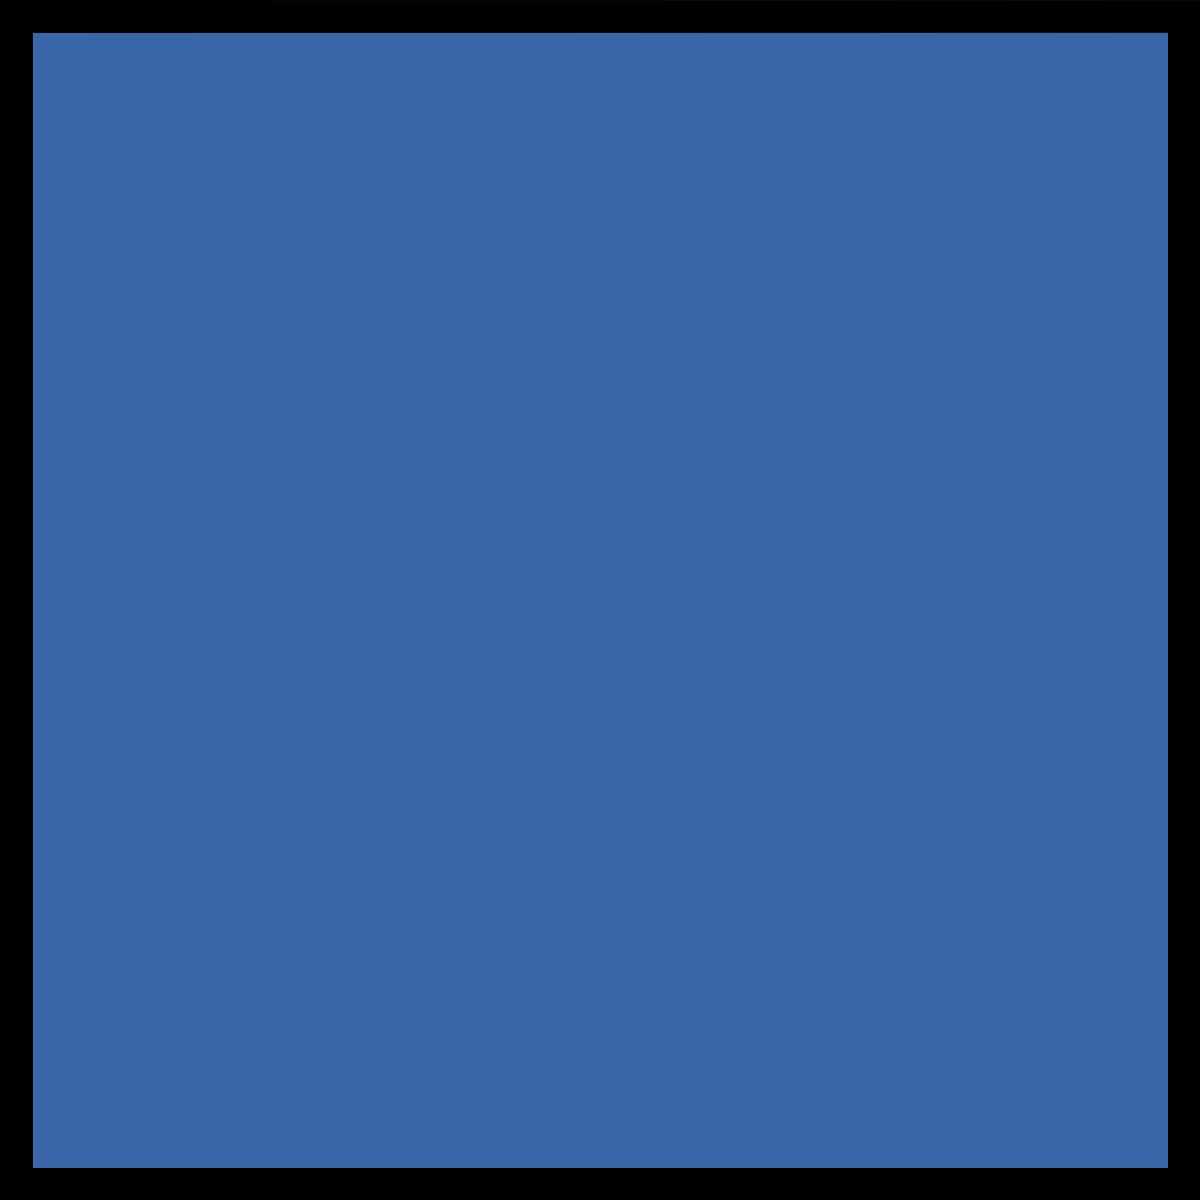
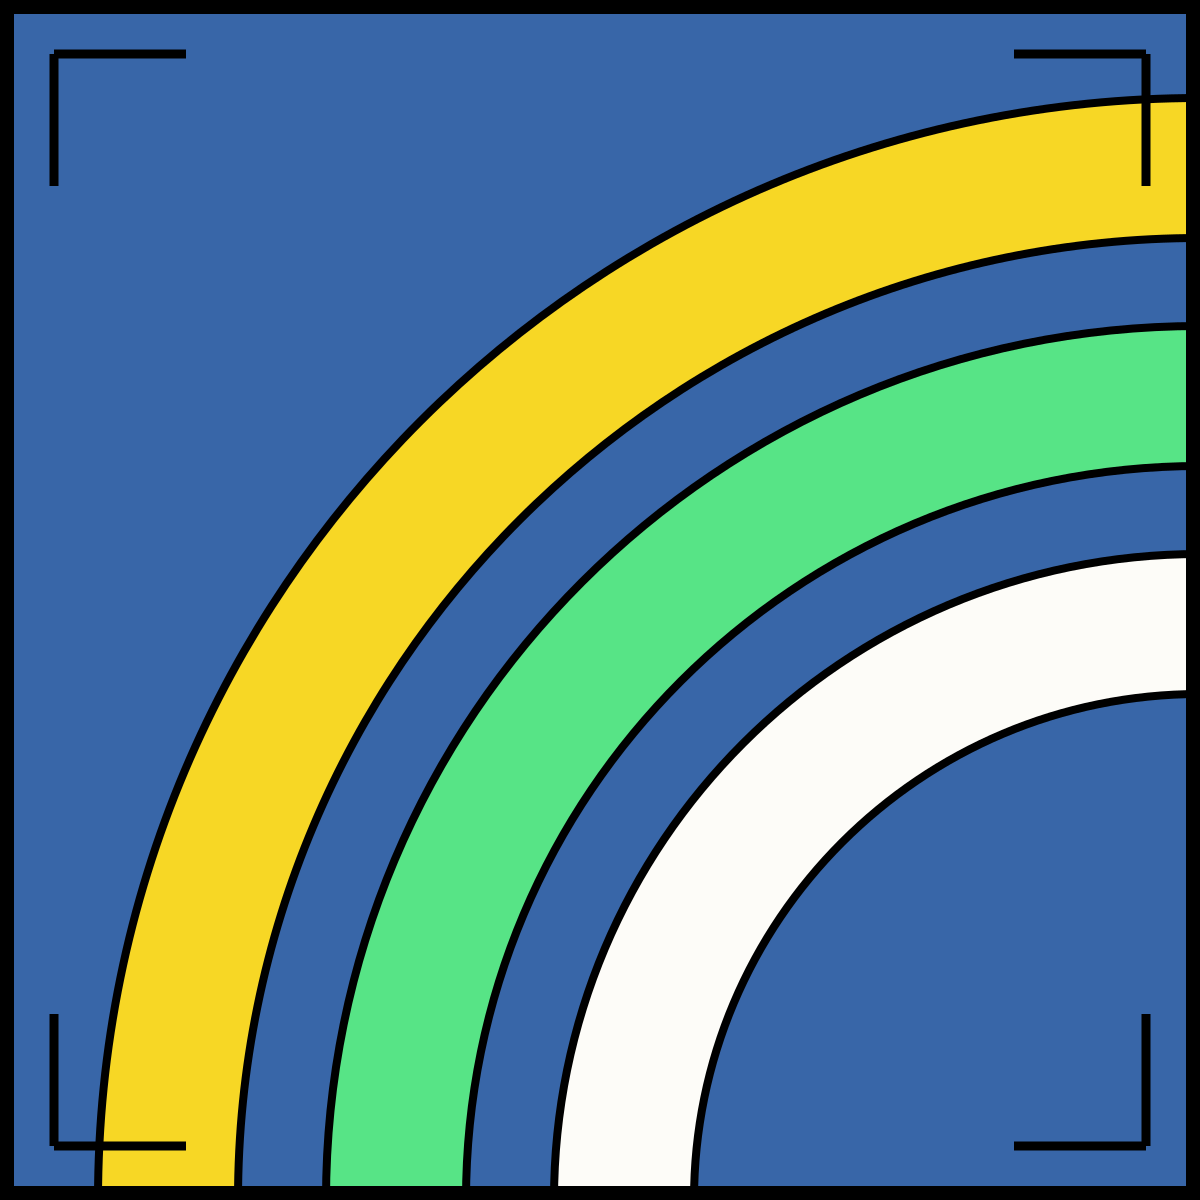
Draw the placeholder sleeves instead of leaving them blank
The seeded covers were flat single-colour squares, which is what a cover
looks like when it has FAILED to load rather than what one looks like before
it has been made. The client asked for an image on the sleeve because they
will be replaced.

Printer's crop marks at the corners say "artwork not final" in the one
language every designer reads, and inside them is the page's own vocabulary:
an onion of quarter-arcs, each colour band laid over a black band sixteen
units wider so every curve carries its keyline without a second path — the
same construction the Arcs ornament already uses.

Colours are assigned by hand rather than hashed from the reference. A hash
spreads them evenly and has no idea that two sleeves next to each other in a
list should not both be blue, or that magenta is rationed and belongs to
exactly one of the five.

Rasterised with sharp, which Payload already depends on, so this adds
nothing. Deterministic, because a regenerated fixture that differed from the
committed one would be a binary diff nobody could review.

diff --git a/src/seed/make-covers.ts b/src/seed/make-covers.ts
@@ -1,0 +1,130 @@
+/**
+ * Generates the placeholder sleeves in `fixtures/`.
+ *
+ * Run by hand — `bun run src/seed/make-covers.ts`. Rasterised with sharp, which is already
+ * a dependency of Payload, so this adds nothing to the project.
+ *
+ * WHY THESE EXIST. The first placeholders were flat single-colour squares, which is what a
+ * cover looks like when it has failed to load rather than what one looks like before it has
+ * been made. These are unmistakably provisional and still composed: printer's crop marks at
+ * the corners say "artwork not final" in the one language every designer reads, and inside
+ * them is the page's own vocabulary — an onion of quarter-arcs, flat fills inside black
+ * keylines, nothing that is a drawing of an object.
+ *
+ * Anna's own artwork replaces these. Nothing here is meant to survive her.
+ */
+
+import path from 'node:path'
+import { fileURLToPath } from 'node:url'
+import sharp from 'sharp'
+
+const FIXTURES = path.resolve(path.dirname(fileURLToPath(import.meta.url)), 'fixtures')
+
+/** Matches the size the seeded covers already are. */
+const SIZE = 1200
+
+/**
+ * The palette, as literals.
+ *
+ * Written out rather than read from the stylesheet because this runs in Node with no
+ * cascade to ask. Kept in the same order as `globals.css` declares them, so a change there
+ * is easy to mirror here.
+ */
+const INK = '#000000'
+const SHEET = '#FDFCF8'
+const HUES = {
+	blue: '#3866A8',
+	cantaloupe: '#F79E76',
+	lemon: '#F7D725',
+	spring: '#57E486',
+	magenta: '#F74183',
+	grape: '#9B35D1',
+} as const
+
+/**
+ * One sleeve per Song, keyed by the reference the seed uploads under.
+ *
+ * Assigned by hand rather than by hashing the reference. A hash spreads colours evenly and
+ * has no idea that two sleeves sitting next to each other in a list should not both be
+ * blue, or that magenta is rationed and belongs to exactly one of the five.
+ */
+const SLEEVES = [
+	{ reference: 'notturno-per-tram-vuoto', ground: HUES.blue, arcs: [HUES.lemon, HUES.spring, SHEET], corner: 'br' },
+	{ reference: 'perche-il-temporale', ground: HUES.lemon, arcs: [HUES.blue, HUES.cantaloupe, INK], corner: 'bl' },
+	{ reference: 'citta-alle-quattro', ground: HUES.spring, arcs: [HUES.blue, SHEET, HUES.cantaloupe], corner: 'tr' },
+	{ reference: 'studio-per-due-mani', ground: HUES.cantaloupe, arcs: [SHEET, HUES.blue, HUES.lemon], corner: 'tl' },
+	{ reference: 'piu-vicino-del-previsto', ground: SHEET, arcs: [HUES.magenta, HUES.grape, HUES.blue], corner: 'br' },
+] as const
+
+/** Where the arcs radiate from, and which way the quarter turns. */
+const CORNERS = {
+	tl: { x: 0, y: 0, sweep: 1 },
+	tr: { x: SIZE, y: 0, sweep: 0 },
+	bl: { x: 0, y: SIZE, sweep: 0 },
+	br: { x: SIZE, y: SIZE, sweep: 1 },
+} as const
+
+/**
+ * A quarter-arc band, drawn the way this project draws every curve.
+ *
+ * An onion of strokes: the colour band goes over a black band sixteen units wider, so each
+ * arc gets eight units of keyline on both edges without a second path. It is the only way a
+ * curve obeys a system where every edge is a black line.
+ */
+function arcBand(corner: keyof typeof CORNERS, radius: number, tint: string, width: number) {
+	const { x, y, sweep } = CORNERS[corner]
+	const from = `${x === 0 ? radius : x - radius},${y}`
+	const to = `${x},${y === 0 ? radius : y - radius}`
+	const d = `M${from} A${radius} ${radius} 0 0 ${sweep} ${to}`
+	return `<path d="${d}" fill="none" stroke="${INK}" stroke-width="${width + 16}"/><path d="${d}" fill="none" stroke="${tint}" stroke-width="${width}"/>`
+}
+
+/**
+ * Printer's crop marks.
+ *
+ * Two strokes per corner, held clear of the edge, never touching each other. This is the
+ * whole reason a viewer reads the sleeve as provisional rather than as finished art, so
+ * they are drawn in ink at full strength and are not decoration to be tuned away.
+ */
+function cropMarks() {
+	const inset = 54
+	const length = 132
+	const width = 9
+	const marks: string[] = []
+	for (const [dx, dy] of [
+		[0, 0],
+		[1, 0],
+		[0, 1],
+		[1, 1],
+	] as const) {
+		const x = dx === 0 ? inset : SIZE - inset
+		const y = dy === 0 ? inset : SIZE - inset
+		const hx = dx === 0 ? x + length : x - length
+		const vy = dy === 0 ? y + length : y - length
+		marks.push(
+			`<path d="M${x} ${y} L${hx} ${y} M${x} ${y} L${x} ${vy}" stroke="${INK}" stroke-width="${width}" fill="none"/>`
+		)
+	}
+	return marks.join('')
+}
+
+function sleeve(spec: (typeof SLEEVES)[number]) {
+	const bands = spec.arcs
+		.map((tint, index) => arcBand(spec.corner, SIZE * (0.86 - index * 0.19), tint, SIZE * 0.11))
+		.join('')
+	return `<svg xmlns="http://www.w3.org/2000/svg" width="${SIZE}" height="${SIZE}" viewBox="0 0 ${SIZE} ${SIZE}">
+	<rect width="${SIZE}" height="${SIZE}" fill="${spec.ground}"/>
+	${bands}
+	${cropMarks()}
+	<rect x="0" y="0" width="${SIZE}" height="${SIZE}" fill="none" stroke="${INK}" stroke-width="28"/>
+</svg>`
+}
+
+for (const spec of SLEEVES) {
+	const file = path.join(FIXTURES, `cover-${spec.reference}.png`)
+	await sharp(Buffer.from(sleeve(spec)))
+		.png()
+		.toFile(file)
+	// biome-ignore lint/suspicious/noConsole: a hand-run generator whose only output is this
+	console.log(`wrote ${path.basename(file)}`)
+}
